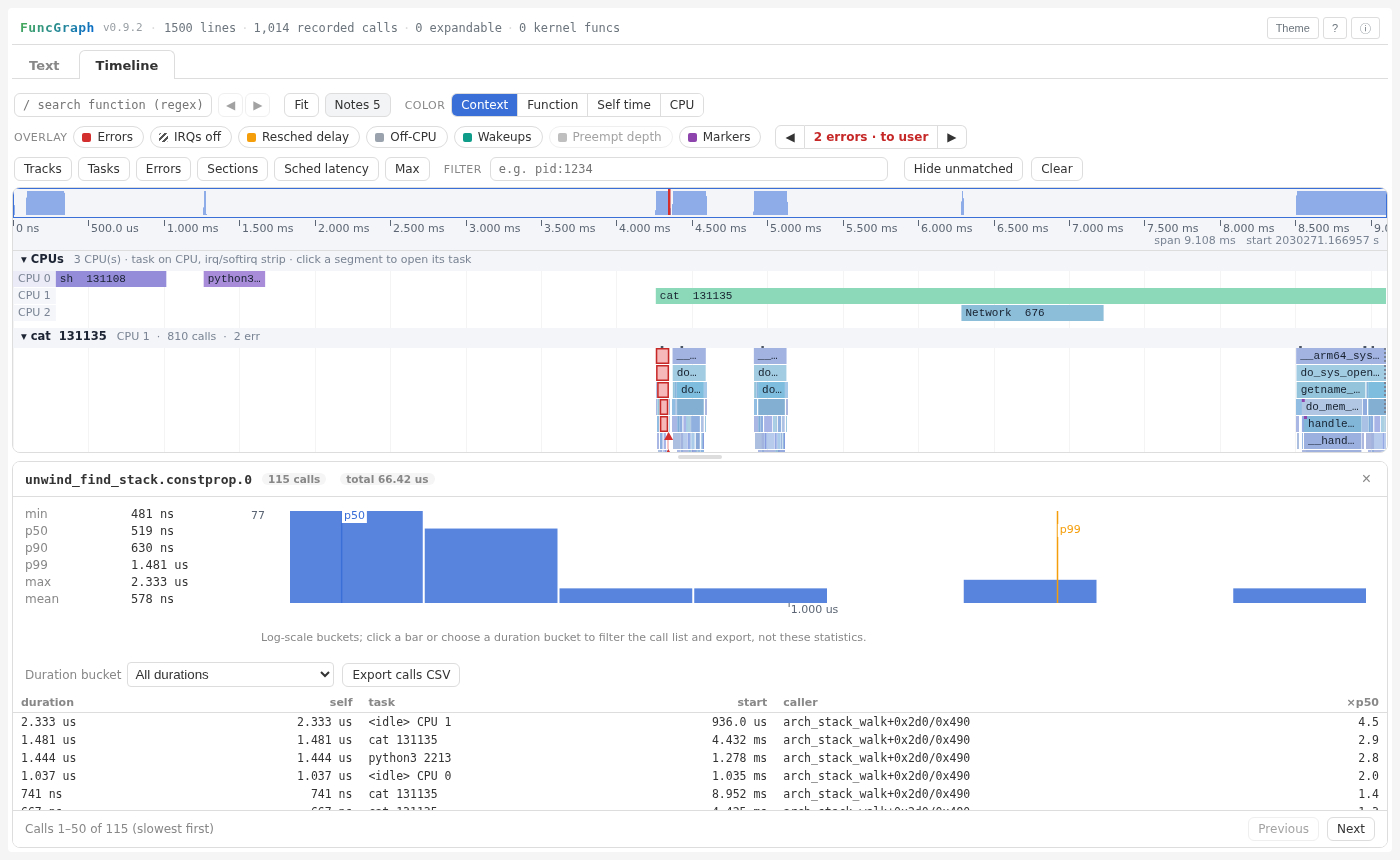
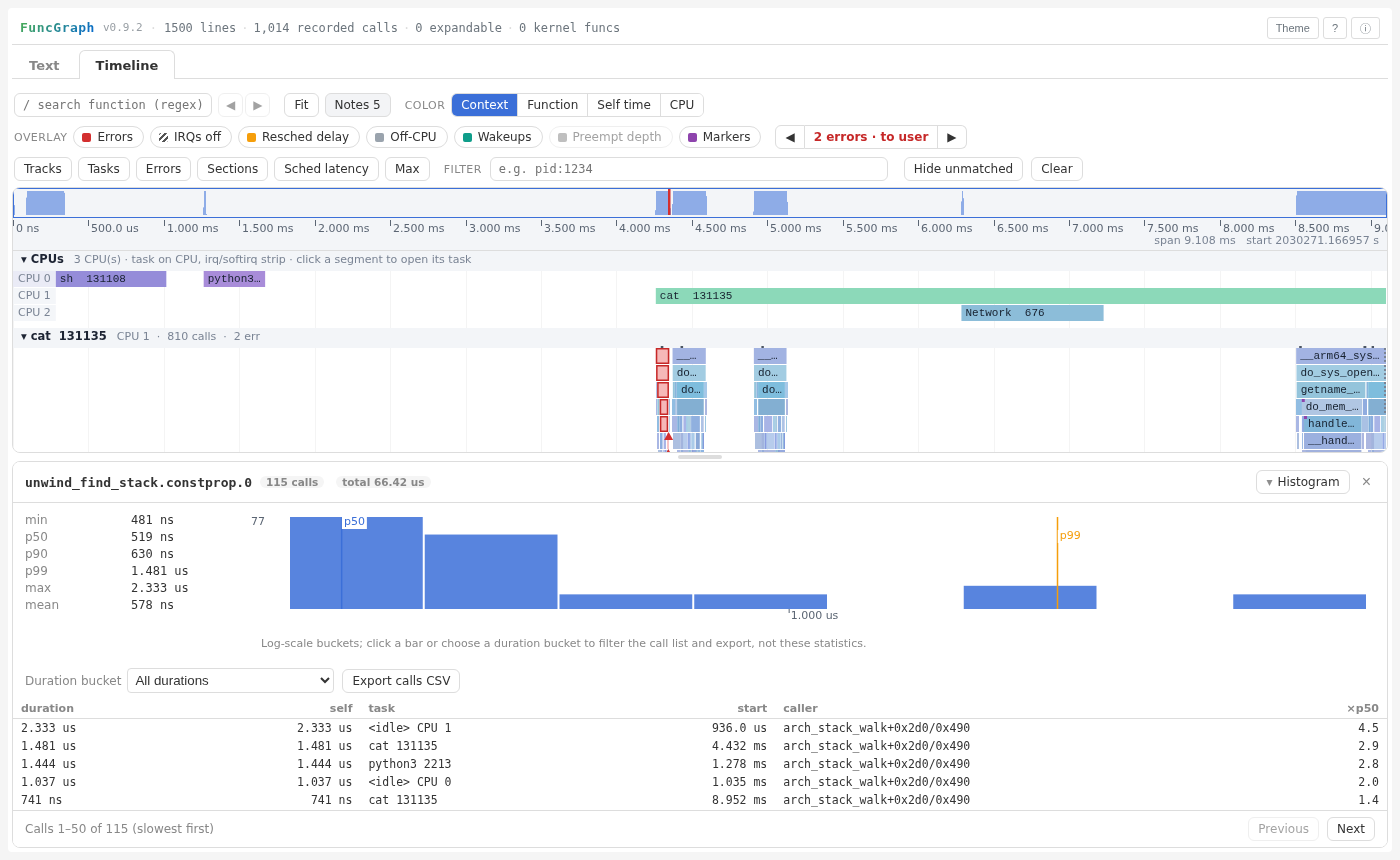
feat(timeline): collapse duration charts without losing statistics
Add a subdued native Histogram disclosure to duration details. Keep the chart open by default, but let users reclaim space for calls without resizing the pane. Retain all six statistics in a compact responsive grid; preserve current page, bucket, rows, selection, view range and complete CSV scope.

Keep this presentation choice local to the Timeline instance across refreshes, function/site/filter/Overhead changes, reopening and Text/Timeline switches. Do not write a new browser preference or change the saved detail split. Skip histogram paint scheduling while closed and redraw at the current size, theme and bucket when reopened.

Group header facts separately from actions, keep long names/pills within narrow panes, and reduce touch-control wrapping while retaining accessible bucket/status text and 44px targets. Real Pi4/mixed reports expose at least six complete desktop calls and two portrait calls in their unchanged default-height panes after collapsing the chart; short landscape still uses explicit detail expansion.

Extend browser regressions with six tests for disclosure keyboard focus, unchanged DOM/data/navigation/export, report-local state, hidden canvas work/current-size redraw, touch delivery/theme combinations, empty populations and 320px long names/values. Update both guides, design, Timeline help, the expanded Pi4 screenshot and a native compact-pane screenshot generated from an isolated parent-plus-change tree.
[…]

diff --git a/assets/timeline/analysis.js b/assets/timeline/analysis.js
@@ -446,7 +446,7 @@ function showErrors() {
 }
 
 // ---- 2. duration distribution of one function ----
-let distCache = null, distView = null, distFrame = 0;
+let distCache = null, distView = null, distFrame = 0, distHistogramOpen = true;
 const DIST_PAGE = 50, DIST_SITE_PAGE = 12;
 function distQuantile(ids, fraction) {
     return ids.length ? durOf(ids[ids.length - 1 - Math.round(fraction * (ids.length - 1))]) : 0;
@@ -516,18 +516,20 @@ function showDist(nameIdx) {
     AN.distIds = ids;
     const quantile = fraction => distQuantile(ids, fraction);
     const statistic = value => ids.length ? fmtDur(value) : '—';
-    let h = '<div class="tl-detail-head an-dist-head"><span class="tl-detail-title" title="' + esc(S[nameIdx]) + '">' + esc(S[nameIdx]) + '</span>' +
+    let h = '<div class="tl-detail-head an-dist-head"><div class="an-dist-heading"><span class="tl-detail-title" title="' + esc(S[nameIdx]) + '">' + esc(S[nameIdx]) + '</span>' +
         pill('mute', ids.length + ' calls') + pill('mute', 'total ' + fmtDur(population.total)) + (textHits ? pill('warn', 'filtered') : '') +
         (adjOn ? pill('warn', 'overhead subtracted') : '') + (AN.site !== null ? '<span class="tl-pill warn" title="' + esc(AN.site) + '">from ' + esc(AN.site) + '</span>' : '') +
-        '<span class="an-dist-actions">' + (AN.site !== null ? '<button class="tl-btn" data-act="dist-reset-site">All call sites</button>' : '') +
+        '</div><span class="an-dist-actions">' + (AN.site !== null ? '<button class="tl-btn" data-act="dist-reset-site">All call sites</button>' : '') +
+        '<button class="tl-btn" type="button" data-act="dist-histogram" aria-label="Histogram" aria-controls="tl-dist-histogram" aria-expanded="' + distHistogramOpen +
+        '" title="' + (distHistogramOpen ? 'Hide histogram; keep all statistics and calls' : 'Show histogram for the full statistical population') + '">Histogram</button>' +
         '<button class="tl-close" title="Close (Esc)">×</button></span></div>';
-    h += '<div class="an-dist"><div class="tl-kv">' +
+    h += '<div class="an-dist' + (distHistogramOpen ? '' : ' an-dist-compact') + '"><div class="tl-kv">' +
         kv('min', statistic(quantile(0))) + kv('p50', statistic(quantile(0.5))) + kv('p90', statistic(quantile(0.9))) + kv('p99', statistic(quantile(0.99))) +
         kv('max', statistic(quantile(1))) + kv('mean', statistic(ids.length ? population.total / ids.length : 0)) +
-        '</div><div class="an-hist-wrap"><canvas class="an-hist" height="120" role="img" aria-label="Duration histogram; use the duration bucket menu to filter calls"></canvas>' +
+        '</div><div class="an-hist-wrap" id="tl-dist-histogram"' + (distHistogramOpen ? '' : ' hidden') + '><canvas class="an-hist" height="120" role="img" aria-label="Duration histogram; use the duration bucket menu to filter calls"></canvas>' +
         '<div class="an-hint">Log-scale buckets; click a bar or choose a duration bucket to filter the call list and export, not these statistics.</div></div></div>';
     if (!ids.length) h += '<div class="an-hint">No calls match this function' + (AN.site !== null ? ' and call site' : '') + ' with the current filter.</div>';
-    h += '<section class="an-dist-call-browser" aria-label="Duration calls"><div class="an-dist-tools"><label>Duration bucket <select data-act="dist-bucket"' + (ids.length ? '' : ' disabled') + '><option value="-1">All durations</option>';
+    h += '<section class="an-dist-call-browser" aria-label="Duration calls"><div class="an-dist-tools"><label><span>Duration bucket</span> <select data-act="dist-bucket" aria-label="Duration bucket"' + (ids.length ? '' : ' disabled') + '><option value="-1">All durations</option>';
     distView.histogram.buckets.forEach((bucket, index) => {
         if (bucket.ids.length) h += '<option value="' + index + '">' + esc(distBucketLabel(index)) + '</option>';
     });
@@ -555,12 +557,23 @@ function slowRows(list, p50) {
         `<td style="text-align:left">${esc(callerOf(i) || (sParent[i] >= 0 ? nameOf(sParent[i]) : ''))}</td>` +
         `<td>${p50 ? (durOf(i) / p50).toFixed(1) : ''}</td></tr>`).join('');
 }
+function toggleDistHistogram() {
+    distHistogramOpen = !distHistogramOpen;
+    elDetail.querySelector('.an-dist').classList.toggle('an-dist-compact', !distHistogramOpen);
+    elDetail.querySelector('.an-hist-wrap').hidden = !distHistogramOpen;
+    const button = elDetail.querySelector('[data-act=dist-histogram]');
+    button.setAttribute('aria-expanded', String(distHistogramOpen));
+    button.title = distHistogramOpen ? 'Hide histogram; keep all statistics and calls' : 'Show histogram for the full statistical population';
+    elDetail.scrollTop = 0;
+    scheduleDistHistogram();
+}
 function updateDistControls() {
     const ids = distCallIds(), start = distView.page * DIST_PAGE, end = Math.min(start + DIST_PAGE, ids.length);
     const previous = elDetail.querySelector('[data-act=dist-prev]'), next = elDetail.querySelector('[data-act=dist-next]');
     const focused = document.activeElement;
-    elDetail.querySelector('.an-dist-count').textContent = ids.length ?
-        'Calls ' + (start + 1) + '–' + end + ' of ' + ids.length + ' (slowest first)' : 'No matching calls';
+    const count = elDetail.querySelector('.an-dist-count');
+    count.textContent = ids.length ? 'Calls ' + (start + 1) + '–' + end + ' of ' + ids.length : 'No matching calls';
+    if (ids.length) count.insertAdjacentHTML('beforeend', '<span class="an-dist-order"> (slowest first)</span>');
     previous.disabled = distView.page === 0;
     next.disabled = end >= ids.length;
     if (focused === next && next.disabled && !previous.disabled) previous.focus({ preventScroll: true });
@@ -590,10 +603,10 @@ function changeDistPage(direction) {
     updateDistControls();
 }
 function scheduleDistHistogram() {
-    if (distFrame || AN.kind !== 'dist' || !elDetail.classList.contains('show') || window.fgCurrentView() !== 'timeline') return;
+    if (distFrame || !distHistogramOpen || AN.kind !== 'dist' || !elDetail.classList.contains('show') || window.fgCurrentView() !== 'timeline') return;
     distFrame = requestAnimationFrame(() => {
         distFrame = 0;
-        if (AN.kind === 'dist' && elDetail.classList.contains('show') && window.fgCurrentView() === 'timeline') drawDistHistogram();
+        if (distHistogramOpen && AN.kind === 'dist' && elDetail.classList.contains('show') && window.fgCurrentView() === 'timeline') drawDistHistogram();
     });
 }
 function drawDistHistogram() {
@@ -667,6 +680,7 @@ elDetail.addEventListener('click', event => {
     if (!button || AN.kind !== 'dist') return;
     const action = button.dataset.act;
     if (action === 'dist-next' || action === 'dist-prev') changeDistPage(action === 'dist-next' ? 1 : -1);
+    else if (action === 'dist-histogram') toggleDistHistogram();
     else if (action === 'dist-reset-bucket') selectDistBucket(-1);
     else if (action === 'dist-reset-site') { AN.site = null; showDist(AN.func); }
     else if (action === 'dist-csv') exportDistCsv();

diff --git a/assets/timeline/timeline.css b/assets/timeline/timeline.css
@@ -414,9 +414,17 @@ table.tl-sum td.err { color: #c62828; }
 .an-slowfast-table td:last-child { white-space: nowrap; }
 .an-slowfast-table th[aria-sort="ascending"] .tl-sum-sort, .an-slowfast-table th[aria-sort="descending"] .tl-sum-sort { text-decoration: underline; text-underline-offset: 3px; }
 .an-dist { display: grid; grid-template-columns: minmax(0, 200px) minmax(0, 1fr); gap: 8px 24px; padding: 10px 12px 4px; }
+.an-dist.an-dist-compact { display: block; padding-block: 4px; }
+.an-dist-compact .tl-kv { grid-template-columns: repeat(12, minmax(0, max-content)); gap: 4px 12px; font-variant-numeric: tabular-nums; }
+.an-dist-compact .tl-kv .k::after { content: ':'; }
+.an-dist-compact ~ .an-dist-call-browser :is(.an-dist-tools, .an-dist-pager) { padding-block: 4px; }
+.an-hist-wrap[hidden] { display: none; }
+.an-dist-head [data-act="dist-histogram"]::before { content: '▾'; opacity: 0.55; margin-right: 5px; }
+.an-dist-head [data-act="dist-histogram"][aria-expanded="false"]::before { content: '▸'; }
 .an-dist-head { flex-wrap: wrap; z-index: 2; left: 0; }
+.an-dist-heading { display: flex; flex: 1; flex-wrap: wrap; align-items: center; gap: 8px; min-width: 0; }
 .an-dist-head .tl-detail-title { display: -webkit-box; -webkit-line-clamp: 2; -webkit-box-orient: vertical; overflow: hidden; max-width: 100%; }
-.an-dist-head .tl-pill { box-sizing: border-box; max-width: 240px; overflow: hidden; text-overflow: ellipsis; white-space: nowrap; }
+.an-dist-head .tl-pill { box-sizing: border-box; max-width: min(240px, 100%); overflow: hidden; text-overflow: ellipsis; white-space: nowrap; }
 .an-dist-actions { display: flex; align-items: center; gap: 8px; margin-left: auto; flex-shrink: 0; }
 .an-dist-pager { position: sticky; bottom: 0; left: 0; z-index: 1; display: flex; flex-wrap: wrap; justify-content: space-between; align-items: center; gap: 8px; padding: 6px 12px; color: var(--text-muted); background: var(--container-bg); border-top: 1px solid var(--border-color); }
 .an-dist-count { font-variant-numeric: tabular-nums; }
@@ -425,6 +433,9 @@ table.tl-sum td.err { color: #c62828; }
 .an-dist-tools { display: flex; flex-wrap: wrap; align-items: center; gap: 8px; padding: 6px 12px; color: var(--text-muted); }
 .an-dist-tools label { display: flex; flex-wrap: wrap; align-items: center; gap: 6px; min-width: 0; max-width: 100%; }
 .an-dist-tools select { max-width: 100%; color: var(--text-color); background: var(--container-bg); border: 1px solid var(--border-color); border-radius: 4px; padding: 3px; }
+@media (max-width: 700px) {
+    .an-dist-compact .tl-kv { grid-template-columns: repeat(6, minmax(0, max-content)); }
+}
 .an-hist-wrap { min-width: 0; }
 .an-hist { width: 100%; cursor: pointer; display: block; }
 .an-site-btn { font: inherit; color: var(--link-color); background: none; border: none; padding: 0; text-align: left; white-space: normal; overflow-wrap: anywhere; cursor: pointer; }
@@ -504,8 +515,13 @@ table.tl-sum td.err { color: #c62828; }
 .tl-compact .an-task-head .tl-btn, .tl-compact .an-task-footer .tl-btn, .tl-compact [data-task-show],
 .tl-compact .an-task-tools :is(input[type=search], select) { min-height: 44px; }
 .tl-compact .an-task-tools input[type=search] { font-size: 16px; }
-.tl-compact .an-dist-pager .tl-btn, .tl-compact .an-dist-tools :is(.tl-btn, select) { min-height: 44px; }
+.tl-compact .an-dist-pager .tl-btn, .tl-compact .an-dist-head [data-act="dist-histogram"], .tl-compact .an-dist-tools :is(.tl-btn, select) { min-height: 44px; }
 .tl-compact .an-dist-tools select { font-size: 16px; }
+.tl-compact .an-dist-heading { gap: 4px 8px; }
+.tl-compact .an-dist-heading .tl-detail-title { flex-basis: 100%; }
+.tl-compact .an-dist-order, .tl-compact .an-dist-compact ~ .an-dist-call-browser .an-dist-tools label > span { position: absolute; width: 1px; height: 1px; padding: 0; margin: -1px; overflow: hidden; clip: rect(0, 0, 0, 0); white-space: nowrap; }
+.tl-compact .an-dist-compact ~ .an-dist-call-browser .an-dist-tools label { flex: 1 1 140px; }
+.tl-compact .an-dist-compact ~ .an-dist-call-browser .an-dist-tools select { width: 100%; }
 .tl-compact .an-task-filter-toggle { display: inline-block; }
 .tl-compact .an-task-tools:not(.open) { display: none; }
 .tl-compact .tl-slice-head { box-sizing: border-box; min-height: 44px; padding-inline-end: 52px; gap: 4px 8px; }

diff --git a/assets/timeline/panels.js b/assets/timeline/panels.js
@@ -1078,7 +1078,7 @@ ${N ? '' : '<p>No function calls were recorded. Search has no call matches; shar
 <li><kbd>E</kbd>/<kbd>Shift+E</kbd> next/prev error · <kbd>/</kbd> search, <kbd>N</kbd>/<kbd>Shift+N</kbd> next/prev match</li>
 <li>Click an off-CPU segment: wait chain (who woke the task, wake latency, and who woke the waker)</li>
 <li><b>Tasks</b>: find recorded tasks by name / PID / CPU, including tasks without traced calls; browse 100 identities per page with Previous / Next and export all matching rows, not just this page</li>
-<li><b>Duration distribution</b>: browse 50 slowest-first calls per page. Previous / Next do not change percentiles or histogram scope; CSV includes all calls in the selected function, call site and duration bucket, not just the page.</li>
+<li><b>Duration distribution</b>: browse 50 slowest-first calls per page. Previous / Next do not change percentiles or histogram scope; CSV includes all calls in the selected function, call site and duration bucket, not just the page. Toggle <b>Histogram</b> to give calls more room while keeping all six statistics; this report-local choice does not change the saved panel split.</li>
 <li><b>Explore all children</b> in call details: complete parent-scoped groups/calls, longest-call navigation and full CSV</li>
 <li><kbd>I</kbd>: show / hide inlined functions as dashed frames (extent = first to last traced call inside)</li>
 <li><kbd>M</kbd> or <b>Max</b>: maximize (hide the page header and tabs); drag the bar above the bottom panel to resize it, double-click it to reset</li>

diff --git a/tests/test_dist_paging.py b/tests/test_dist_paging.py
@@ -98,6 +98,143 @@ class DistributionPagingTest(unittest.TestCase):
     def rows(self):
         return list(csv.DictReader(io.StringIO(self.export().decode('utf-8-sig'))))
 
+    def statistics(self):
+        return self.page.locator('.an-dist .tl-kv').evaluate('''element =>
+            Object.fromEntries([...element.querySelectorAll('.k')].map(label =>
+                [label.textContent, label.nextElementSibling.textContent]))''')
+
+    def visible_calls(self):
+        return self.page.evaluate('''() => {
+            const panel = document.querySelector('.tl-detail').getBoundingClientRect();
+            const pager = document.querySelector('.an-dist-pager').getBoundingClientRect();
+            const header = document.querySelector('.an-dist-head').getBoundingClientRect();
+            return [...document.querySelectorAll('.an-list tr')].filter(row => {
+                const bounds = row.getBoundingClientRect();
+                return bounds.top >= Math.max(panel.top, header.bottom) && bounds.bottom <= Math.min(panel.bottom, pager.top);
+            }).length;
+        }''')
+
+    def test_histogram_disclosure_keeps_page_rows_statistics_csv_and_keyboard_focus(self):
+        self.open_report()
+        self.next()
+        before = self.ids(), self.statistics(), self.export()
+        navigation = self.page.evaluate("() => { const model = fgView('timeline').probe(); return [model.sel(), model.view()]; }")
+        split = self.page.evaluate("localStorage.getItem('fgTl.detailFrac')")
+        first = self.page.locator('.an-list [data-slice]').first.element_handle()
+        button = self.page.get_by_role('button', name='Histogram', exact=True)
+        self.assertEqual(button.get_attribute('aria-controls'), 'tl-dist-histogram')
+        self.assertEqual(button.get_attribute('aria-expanded'), 'true')
+        button.press('Enter')
+        self.assertEqual(button.get_attribute('aria-expanded'), 'false')
+        self.assertFalse(self.page.locator('.an-hist').is_visible())
+        self.assertTrue(first.evaluate('element => element.isConnected'))
+        self.assertEqual((self.ids(), self.statistics(), self.export()), before)
+        self.assertEqual(self.page.evaluate("() => { const model = fgView('timeline').probe(); return [model.sel(), model.view()]; }"), navigation)
+        self.assertEqual(self.page.evaluate("localStorage.getItem('fgTl.detailFrac')"), split)
+        button.press('Space')
+        self.assertTrue(button.evaluate('element => element === document.activeElement'))
+        self.assertTrue(self.page.locator('.an-hist').is_visible())
+        self.assertEqual((self.ids(), self.statistics(), self.export()), before)
+        self.assertEqual(self.page.evaluate("() => { const model = fgView('timeline').probe(); return [model.sel(), model.view()]; }"), navigation)
+
+    def test_histogram_choice_survives_population_changes_reopening_but_not_report_reload(self):
+        def update(data):
+            data['strings'] += ['second_function', 'second_caller']
+            data['cols']['name'][-1] = 2
+            data['cols']['caller'] = [1] * 120 + [3] * 85
+            data['cols']['adj'] = [duration / 2 for duration in data['cols']['dur']]
+        self.open_report(update=update)
+        self.page.locator('[data-act=dist-histogram]').click()
+        self.page.locator('tr[data-site] button').first.click()
+        self.page.locator('[data-act=dist-next]').click()
+        self.page.evaluate("fgNotifyFilter('subset', new Set(Array.from({length: 100}, (_, index) => index + 1)))")
+        self.page.locator('[data-act=adj]').click()
+        self.assertEqual(self.page.locator('[data-act=dist-histogram]').get_attribute('aria-expanded'), 'false')
+        self.page.locator('.an-dist-head .tl-close').click()
+        self.page.evaluate("() => { const model = fgView('timeline').probe(); model.dist(model.sName[0]); }")
+        self.assertFalse(self.page.locator('.an-hist').is_visible())
+        self.page.evaluate("() => { const model = fgView('timeline').probe(); model.dist(model.S.indexOf('second_function')); }")
+        self.assertFalse(self.page.locator('.an-hist').is_visible())
+        self.assertEqual(self.status(), 'No matching calls')
+        self.open_report()
+        self.assertEqual(self.page.locator('[data-act=dist-histogram]').get_attribute('aria-expanded'), 'true')
+
+    def test_closed_histogram_skips_canvas_work_and_redraws_at_current_size_when_reopened(self):
+        self.open_report()
+        self.page.locator('[data-act=dist-histogram]').click()
+        self.page.evaluate('''async () => {
+            await new Promise(resolve => requestAnimationFrame(() => requestAnimationFrame(resolve)));
+            const original = HTMLCanvasElement.prototype.getContext;
+            window.distCanvasCalls = 0;
+            HTMLCanvasElement.prototype.getContext = function(...parameters) {
+                if (this.classList.contains('an-hist')) window.distCanvasCalls++;
+                return original.apply(this, parameters);
+            };
+        }''')
+        self.page.set_viewport_size({'width': 1260, 'height': 800})
+        self.page.evaluate("document.documentElement.setAttribute('data-theme', 'dark')")
+        self.page.locator('[data-act=dist-bucket]').select_option(self.page.locator('[data-act=dist-bucket] option').last.get_attribute('value'))
+        self.page.evaluate('async () => { await new Promise(resolve => requestAnimationFrame(() => requestAnimationFrame(resolve))); }')
+        self.assertEqual(self.page.evaluate('window.distCanvasCalls'), 0)
+        bucket = self.page.locator('[data-act=dist-bucket]').input_value()
+        self.page.locator('[data-act=dist-histogram]').press('Enter')
+        self.page.wait_for_function('''() => {
+            const canvas = document.querySelector('.an-hist');
+            return window.distCanvasCalls > 0 && canvas.width === Math.round(canvas.parentElement.clientWidth * devicePixelRatio);
+        }''')
+        self.assertEqual(self.page.locator('[data-act=dist-bucket]').input_value(), bucket)
+
+    def test_compact_histogram_keeps_real_call_rows_visible_in_touch_reports(self):
+        self.context.close()
+        for theme in ('light', 'dark'):
+            for sidecar in (False, True):
+                context = self.browser.new_context(viewport={'width': 390, 'height': 844}, has_touch=True, is_mobile=True)
+                self.addCleanup(context.close)
+                self.page = context.new_page()
+                self.page.on('pageerror', lambda error: self.errors.append(str(error)))
+                self.page.add_init_script(f"localStorage.setItem('theme', '{theme}')")
+                self.open_report(sidecar=sidecar)
+                expected = self.statistics(), self.export()
+                self.page.locator('[data-act=dist-histogram]').tap()
+                for width, height in ((390, 844), (844, 390)):
+                    with self.subTest(theme=theme, sidecar=sidecar, width=width):
+                        self.page.set_viewport_size({'width': width, 'height': height})
+                        if height < 480:
+                            self.page.locator('[data-detail-expand]').tap()
+                        self.page.evaluate("document.querySelector('.tl-detail').scrollTop = 0")
+                        self.assertGreaterEqual(self.visible_calls(), 1)
+                        self.assertEqual((self.statistics(), self.export()), expected)
+                        self.assertEqual(self.page.get_by_label('Duration bucket', exact=True).count(), 1)
+                        self.assertGreaterEqual(self.page.locator('[data-act=dist-histogram]').bounding_box()['height'], 44)
+                        self.assertLessEqual(self.page.evaluate('document.documentElement.scrollWidth'), width)
+                context.close()
+
+    def test_empty_compact_distribution_never_invents_statistics_or_enables_export(self):
+        self.open_report()
+        self.page.locator('[data-act=dist-histogram]').click()
+        self.page.evaluate("fgNotifyFilter('empty', new Set())")
+        self.assertEqual(set(self.statistics().values()), {'—'})
+        self.assertEqual(self.ids(), [])
+        self.assertEqual(self.status(), 'No matching calls')
+        self.assertTrue(self.page.locator('[data-act=dist-csv]').is_disabled())
+        self.page.locator('[data-act=dist-histogram]').press('Space')
+        self.assertTrue(self.page.locator('.an-hist').is_visible())
+        self.assertTrue(self.page.locator('[data-act=dist-bucket]').is_disabled())
+
+    def test_narrow_compact_statistics_and_long_names_do_not_overflow(self):
+        def update(data):
+            data['strings'][0] = 'very_long_function_' * 12
+            data['cols']['dur'] = [10 ** 12 + index for index in range(205)]
+        self.page.set_viewport_size({'width': 320, 'height': 844})
+        self.open_report(update=update)
+        expected = self.statistics()
+        self.page.locator('[data-act=dist-histogram]').click()
+        self.assertEqual(self.statistics(), expected)
+        self.assertLessEqual(self.page.evaluate('document.documentElement.scrollWidth'), 320)
+        button = self.page.locator('[data-act=dist-histogram]').bounding_box()
+        self.assertGreaterEqual(button['x'], 0)
+        self.assertLessEqual(button['x'] + button['width'], 320)
+
     def test_page_boundaries_and_native_keyboard_endpoint_focus(self):
         for count in (1, 50, 51, 103):
             with self.subTest(count=count):

diff --git a/docs/performance-duration-calls.md b/docs/performance-duration-calls.md
@@ -53,7 +53,8 @@ is not a new capture. Startup, CSV cost and peak memory are not measured.
 
 ## Measured result
 
-Chromium `145.0.7632.6`, a 1500 × 900 viewport, 5,000 synthetic calls and three
+The paging comparison committed as `a7ea8256f3b7` uses Chromium `145.0.7632.6`,
+a 1500 × 900 viewport, 5,000 synthetic calls and three
 alternating before/after rounds. Both templates have identical Timeline models
 apart from generation time. These are medians, not latency guarantees.
 
@@ -101,6 +102,8 @@ or comparison tables.
 
 ## Validation
 
+The paging change (`a7ea8256f3b7`) was validated as follows:
+
 - Ten dedicated browser tests cover 1/50/51/103-call boundaries, every identity
   in 5,207 calls, stable tie order without sorting during paging, native keyboard
   endpoint focus, bucket/site/shared filters, empty populations, refresh/reopen,
@@ -119,6 +122,55 @@ or comparison tables.
   `containIntrinsicBlockSize` includes the `auto` prefix. This is not an
   all-green full audit. That Text test and its associated source/index changes
   are neither modified nor included in this duration-call change.
+
+## Compact histogram follow-up
+
+The paging change exposed a cramped-layout limitation: the Pi4 distribution's
+default 275px desktop and 270px touch-portrait panes showed no complete call
+rows at scroll position zero. A header **Histogram** button now lets the user
+collapse just the chart and arrange all six statistics compactly, rather than
+automatically hiding evidence or changing the saved pane height. The chart is
+still open by default. Its explicit `aria-expanded` / `aria-controls` state and
+native Enter/Space behavior remain available in both themes and report modes.
+
+The choice is held only by this Timeline instance: refreshing the analysis,
+changing filters/function/call site/Overhead, closing/reopening or switching
+views retains it; reloading the report resets it. Toggling does not replace call
+rows, sort/aggregate again, change the current page or bucket, select a call,
+alter the measured view range, export scope or stored `fgTl.detailFrac`.
+Collapsing does not stop normal population preparation for filters; it only
+avoids scheduling histogram painting. Reopening redraws at the current size,
+theme and bucket. This is not an out-of-core or whole-trace performance claim.
+
+The six statistics, full CSV bytes and model data were compared with the old
+reports for the same 24 Pi4/mixed configurations. In the compact view, both
+representative functions show at least six complete call rows on desktop and two in
+portrait, without changing the default pane height. Short 844 × 390 landscape
+uses the existing explicit detail expansion and then shows one complete call
+row; that landscape result is **not** a same-height comparison with the old 67px
+unexpanded pane. All matching calls remain reachable with the native pager.
+No document-wide horizontal overflow or page errors were observed.
+
+![Compact duration distribution](img/an_dist_compact.png)
+
+The compact screenshot is a native crop of the real Pi4 report at the default
+275px pane height. The expanded `an_dist.png` remains a manually enlarged pane;
+neither screenshot is a new capture or a reconstructed drawing.
+
+Six follow-up tests extend the dedicated duration suite to 16 tests. They cover
+native disclosure focus and retained DOM/navigation/CSV, report-local lifetime,
+hidden-canvas paint avoidance and current-size redraw, compact touch layouts in
+both delivery modes/themes, empty populations and 320px long-name/value layouts.
+All 86 focused distribution/cohort/task/lifecycle/detail tests pass; an exported
+parent-plus-change tree without the pending Text work independently passes all
+16 duration tests and 15 existing distribution/cohort regressions. The 24 real
+report checks also switch to Text and back, preserving the collapsed state,
+call page, statistics and complete CSV.
+
+The required-native full worktree audit now runs 903 tests: 899 pass, three skip
+and the same preserved, uncommitted Text computed-style assertion described
+above fails. This follow-up does not fix or include that unrelated Text work,
+and the full audit is not described as all-green.
 
 ## Remaining limits
 

diff --git a/docs/guide.en.md b/docs/guide.en.md
@@ -859,11 +859,12 @@ The range panel stays open when filtering or switching Overhead, even if an anal
 
 ![an_dist](img/an_dist.png)
 
-*Duration distribution (`unwind_find_stack.constprop.0` in tests/data/pi4_sched.txt, 115 calls): percentiles, log histogram and calls 1–50, slowest first. The detail divider is dragged upward to show statistics, call rows and paging controls together; the default-height pane also supports scrolling.*
+*Duration distribution (`unwind_find_stack.constprop.0` in tests/data/pi4_sched.txt, 115 calls): percentiles, log histogram and calls 1–50, slowest first. The detail divider is dragged upward; at the default height, **Histogram** can instead collapse the chart to leave room for calls.*
 
 Press `H` with a slice selected, or click **Duration distribution** in the detail panel:
 
-- Left: min, p50, p90, p99, max and mean over matching calls of the function and selected call site. Percentiles consistently use the ascending sample at `round(p × (count − 1))`, including the call-site table. The Overhead switch updates durations and self time; positions on the timeline remain measured.
+- **Statistics**: min, p50, p90, p99, max and mean over matching calls of the function and selected call site. Percentiles consistently use the ascending sample at `round(p × (count − 1))`, including the call-site table. The Overhead switch updates durations and self time; positions on the timeline remain measured.
+- **Histogram toggle**: the chart is open by default. The header button supports mouse, touch and Enter / Space. Collapsing it keeps all six statistics in a compact layout without changing the bucket, current page, call rows or CSV scope. The choice survives refreshes, reopening and switching functions within this report; reloading the page restores the default. It never changes the saved detail split. Touch controls are at least 44px tall and the bucket selector keeps its accessible name. See the [paging and layout record](performance-duration-calls.md#compact-histogram-follow-up) for measurements and a compact-view screenshot.
 - **Histogram**: x is duration (log scale), y the number of calls (log scale). The blue line is p50, the amber one p99; bars containing error origins are red. Click a bar, or use the keyboard-accessible **Duration bucket** menu, to restrict the call list and its CSV export. **All durations** clears this selection. Bucket labels are rounded for readability; CSV records the numeric lower-inclusive / upper-exclusive bounds. Percentiles and totals continue to describe the whole function/call-site population, not just the selected bucket. The histogram resizes with the window and repaints after theme changes.
 - **Slowest calls**: duration, self, task, start, call site, and `×p50` (how many times the population median). **Previous / Next** replace pages of at most 50 calls without accumulating attached call rows; the status gives the current range and total. Ordinary refreshes and reopening preserve the page; changes to the function, call site, duration bucket, shared filter or Overhead population start at the first page. The pager stays within the call-list section, not over the following comparison or call-site tables; very short panes use normal scrolling. Click a row to highlight that call while keeping the distribution panel open. Touch paging, bucket and export controls are at least 44px tall. See the [duration-call paging record](performance-duration-calls.md) for measurements and limits.
 - **By call site**: one row per call site with calls and p50/p99/max; the same function called from different places can behave very differently. The table stays visible while filtering: click a row to select it, then click the selected row again or **All call sites** to undo. **More call sites** reveals entries beyond the initial 12. If a shared filter removes every call at the selected site, the panel remains open with an explicit empty state and a working reset button.

diff --git a/docs/guide.cn.md b/docs/guide.cn.md
@@ -846,11 +846,12 @@ python3 funcgraph.py --timeline --tail-calls --fast --func-links \
 
 ![an_dist](img/an_dist.png)
 
-*耗时分布（tests/data/pi4_sched.txt 里的 `unwind_find_stack.constprop.0`，115 次调用）：分位数、对数直方图与耗时降序排列的第 1–50 条调用。图中向上拖动了详情分隔条，以同时展示统计、调用行和分页按钮；默认高度下可以滚动查看。*
+*耗时分布（tests/data/pi4_sched.txt 里的 `unwind_find_stack.constprop.0`，115 次调用）：分位数、对数直方图与耗时降序排列的第 1–50 条调用。图中向上拖动了详情分隔条；默认高度下也可以用 **Histogram** 收起图表，把空间留给调用列表。*
 
 选中一个切片后按 `H`，或点详情面板里的 **Duration distribution**：
 
-- 左侧：当前函数和所选调用点中，满足过滤条件的调用的 min、p50、p90、p99、max 和 mean。所有分位数（包括调用点表格）统一取升序样本中下标为 `round(p × (count − 1))` 的值。Overhead 开关更新耗时和自身耗时，但时间轴位置仍按原始测量值。
+- **统计值**：当前函数和所选调用点中，满足过滤条件的调用的 min、p50、p90、p99、max 和 mean。所有分位数（包括调用点表格）统一取升序样本中下标为 `round(p × (count − 1))` 的值。Overhead 开关更新耗时和自身耗时，但时间轴位置仍按原始测量值。
+- **Histogram 开关**：默认显示直方图；标题右侧的按钮支持鼠标、触控和 Enter / Space。收起后六个统计值紧凑排列，区间选择、当前页、调用行和 CSV 范围不变。选择在当前报告内跨刷新、重开及切换函数保留，重新加载页面后恢复默认；不会修改保存的详情分隔位置。手机上控件至少 44px 高，区间菜单仍有可访问名称。布局实测与紧凑视图截图见[分页与布局记录](performance-duration-calls.md#compact-histogram-follow-up)。
 - **直方图**：横轴是耗时（对数刻度），纵轴是调用次数（对数刻度）。蓝色竖线是 p50，琥珀色竖线是 p99；包含错误源头的柱子画成红色。点击柱子，或通过支持键盘操作的 **Duration bucket** 菜单，筛选调用列表及其 CSV 导出；**All durations** 取消区间选择。区间标签为便于阅读经过舍入，CSV 保留左闭右开的数值边界。分位数和总量始终描述整个函数/调用点的样本，而非仅描述所选柱子。直方图随窗口调整尺寸，主题切换后也会重新绘制。
 - **最慢的调用**：耗时、自身耗时、任务、开始时间、调用点，`×p50` 表示是总体中位数的多少倍。每页最多 50 次调用，**Previous / Next** 替换当前页，不随浏览累积调用行；状态显示当前范围和总数。普通刷新和重开保留页码；函数、调用点、耗时区间、共享过滤器或 Overhead 改变样本时从首页开始。分页条仅在调用列表区域内停靠，不覆盖后面的对比或调用点表格；极短面板恢复普通滚动。点击某一行只高亮这次调用，不关闭耗时分布面板。触控翻页、区间和导出控件至少 44px 高；实测和限制见[耗时调用分页记录](performance-duration-calls.md)。
 - **By call site**：按调用点分组，显示调用次数和 p50/p99/max。同一个函数从不同位置调用，耗时可能差别很大。筛选后表格仍然可见：点击某行选择调用点，再点选中的行或 **All call sites** 取消；**More call sites** 加载前 12 项之外的调用点。若共享过滤器排除了所选调用点的全部调用，面板会显示明确的空状态，并保留可用的重置按钮。
